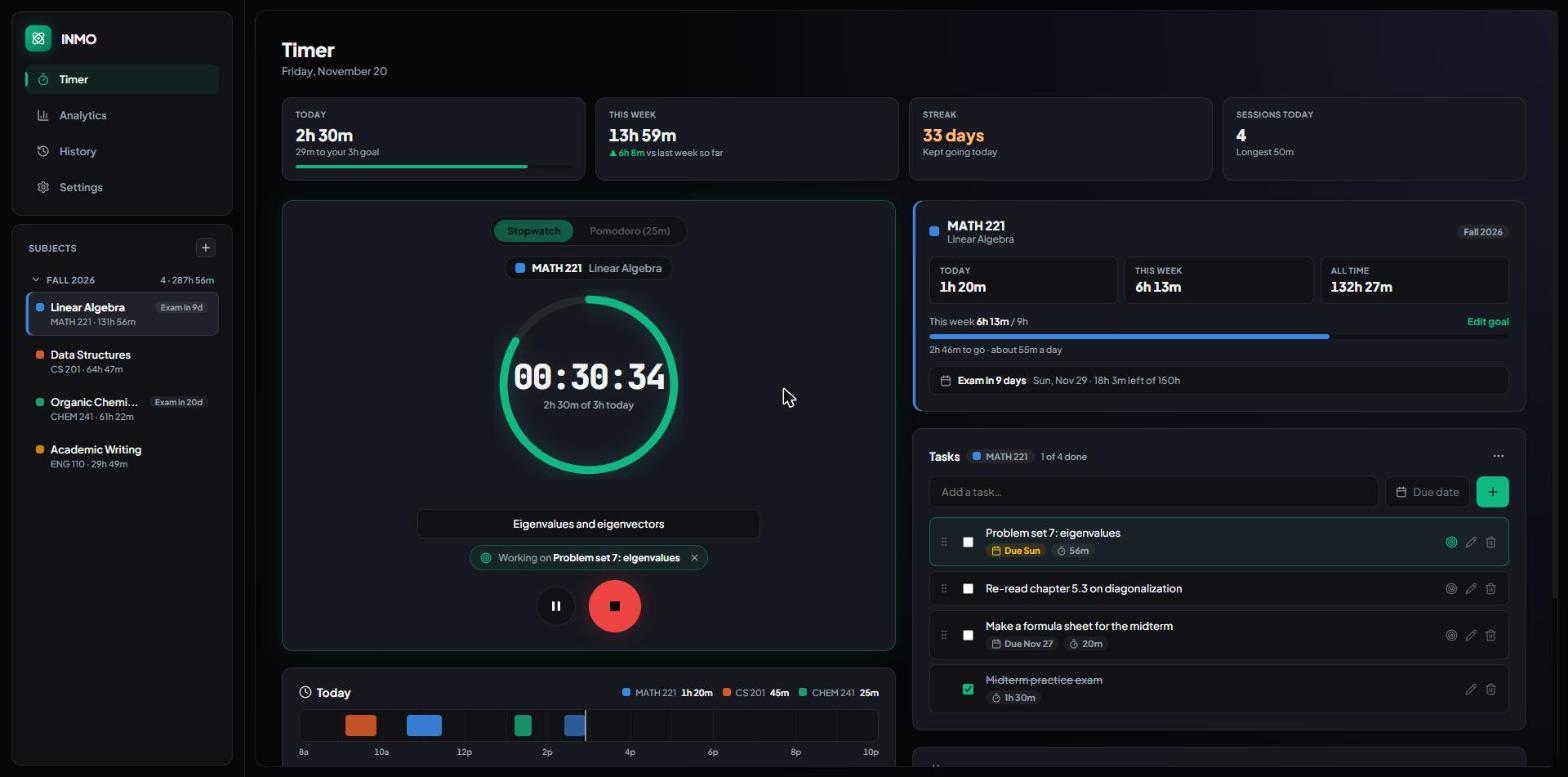
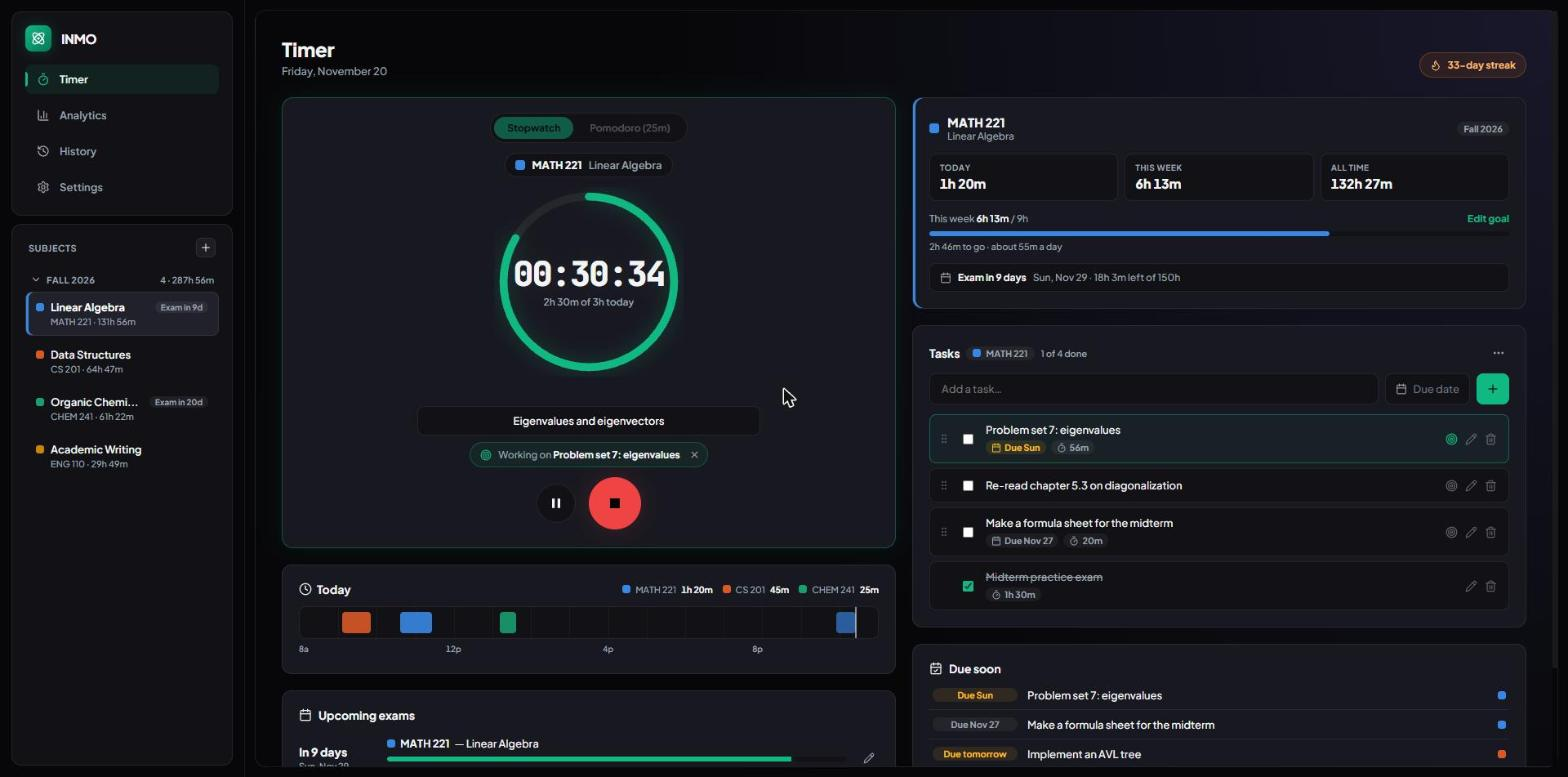
Timer page: back to the streak chip, without the tiles
The four tiles above the timer (today, this week, streak, sessions today) are
gone, and the streak is the flame chip in the header again, as before 1.3.2's
redesign. The timeline and the current subject's card stay. The page now loads
only this week's sessions, since last week's were only for the week tile.

diff --git a/src/today.js b/src/today.js
@@ -1,16 +1,14 @@
-// The Timer page's view of the day around the clock: four tiles (today, this
-// week, streak, sessions), a timeline of today's sessions, and a card for the
-// subject the timer is on. Sessions since last Monday are loaded on each data
+// The Timer page's view of the day around the clock: a timeline of today's
+// sessions and a card for the subject the timer is on. This week's sessions are loaded on each data
 // change; the running session is added on every timer tick without a reload.
 import { icon } from './icons.js';
 import { state, getActiveCourse, courseById, reloadData } from './state.js';
-import { escapeHtml, formatCompact, addDays, weekdayIndex, fmtDay, parseDateKey, errorText } from './format.js';
+import { escapeHtml, formatCompact, weekdayIndex, fmtDay, parseDateKey, errorText } from './format.js';
 import { courseColor, swatch } from './colors.js';
 import { daysUntil, examPace } from './exams.js';
-import { currentStreak } from './subjects.js';
 import { showToast } from './notify.js';
 
-let sessions = [];       // since last Monday, { id, course_id, duration, ended_at }
+let sessions = [];       // since this Monday, { id, course_id, duration, ended_at }
 let editingGoal = false;
 
 function startOfToday() {
@@ -40,9 +38,9 @@ function sumSince(list, from, to = Infinity, courseId = null) {
 }
 
 export async function loadToday() {
-  const lastMonday = addDays(mondayOf(new Date()), -7);
+  const monday = mondayOf(new Date());
   try {
-    sessions = await window.api.getSessions(Math.floor(lastMonday.getTime() / 1000));
+    sessions = await window.api.getSessions(Math.floor(monday.getTime() / 1000));
   } catch (err) {
     console.error('Could not load this week\'s sessions:', err);
     sessions = [];
@@ -51,68 +49,8 @@ export async function loadToday() {
 }
 
 export function renderToday() {
-  renderTiles();
   renderTimeline();
   renderSubjectCard();
-}
-
-// ---------- Tiles ----------
-
-// `sub` may hold markup (the week tile's arrows); everything typed by a person is escaped before it gets here.
-function tile(label, value, sub, extra = '', barPct = null) {
-  return `
-    <div class="summary-tile ${extra}">
-      <div class="summary-tile-label">${label}</div>
-      <div class="summary-tile-value">${value}</div>
-      <div class="summary-tile-sub">${sub}</div>
-      ${barPct === null ? '' : `<div class="tile-bar"><div style="width: ${barPct}%"></div></div>`}
-    </div>`;
-}
-
-function renderTiles() {
-  const el = document.getElementById('today-tiles');
-  if (!el) return;
-  const live = liveSession();
-  const all = live ? [...sessions, live] : sessions;
-  const today = startOfToday();
-  const monday = mondayOf(today);
-  const lastMonday = addDays(monday, -7);
-
-  const todaySecs = sumSince(all, today);
-  const goal = state.dailyGoalSecs;
-  const goalPct = goal > 0 ? Math.min(100, Math.round((todaySecs / goal) * 100)) : 0;
-  const todaySub = !goal
-    ? 'No daily goal set'
-    : todaySecs >= goal ? 'Daily goal reached' : `${formatCompact(goal - todaySecs)} to your ${formatCompact(goal)} goal`;
-
-  const weekSecs = sumSince(all, monday);
-  // Last week up to the same point in the week, so Wednesday compares with last Wednesday.
-  const sameTimeLastWeek = new Date(Date.now() - 7 * 86400000);
-  const lastWeekSecs = sumSince(sessions, lastMonday, sameTimeLastWeek);
-  let weekSub = 'Nothing last week to compare';
-  if (lastWeekSecs > 0) {
-    const diff = weekSecs - lastWeekSecs;
-    weekSub = diff >= 0
-      ? `<span class="trend-up">▲ ${formatCompact(diff)}</span> vs last week so far`
-      : `<span class="trend-down">▼ ${formatCompact(-diff)}</span> vs last week so far`;
-  }
-
-  const streak = currentStreak();
-  const studiedToday = todaySecs > 0;
-  const streakSub = streak === 0
-    ? 'Study today to start one'
-    : studiedToday ? 'Kept going today' : 'Study today to keep it';
-
-  const todayList = all.filter(s => s.ended_at >= today.getTime() / 1000);
-  const longest = todayList.reduce((m, s) => Math.max(m, s.duration), 0);
-  const count = todayList.length;
-  const countSub = count ? `Longest ${formatCompact(longest)}` : 'None yet';
-
-  el.innerHTML =
-    tile('Today', formatCompact(todaySecs), todaySub, goal && todaySecs >= goal ? 'goal-met' : '', goal ? goalPct : null) +
-    tile('This week', formatCompact(weekSecs), weekSub) +
-    tile('Streak', streak ? `${streak} ${streak === 1 ? 'day' : 'days'}` : '—', streakSub, streak && studiedToday ? 'streak-on' : '') +
-    tile('Sessions today', String(count), countSub);
 }
 
 // ---------- Today's timeline ----------
@@ -302,7 +240,6 @@ export function renderTodayLive() {
   const running = state.timer.isStudying && state.timer.phase === 'focus';
   if (running && now - lastLive < 5000) return;
   lastLive = now;
-  renderTiles();
   renderTimeline();
   if (!editingGoal) renderSubjectCard();
 }

diff --git a/src/index.css b/src/index.css
@@ -843,6 +843,13 @@
     }
     .header-badge span { font-weight: 800; }
 
+    .streak-chip {
+      display: inline-flex; align-items: center; gap: 7px; padding: 7px 12px; border-radius: 999px;
+      font-size: 12px; font-weight: 700; color: var(--text-sub);
+      background: var(--bg-card); border: 1px solid var(--border-color);
+    }
+    .streak-chip.on { color: #fdba74; background: rgba(249, 115, 22, 0.1); border-color: rgba(249, 115, 22, 0.3); }
+
     /* Timer page: timer, today's timeline and exams on the left; the subject,
        its tasks and "Due soon" on the right. Narrower windows stack them:
        timer, today, subject, tasks, due soon, exams. */
@@ -995,16 +1002,7 @@
     .datepicker-foot .btn-secondary { padding: 6px 10px; font-size: 12px; }
     .datepicker-foot .btn-secondary:disabled { opacity: 0.4; cursor: default; }
 
-    /* Timer page: today's tiles, timeline and the current subject (today.js) */
-
-    .today-tiles { grid-template-columns: repeat(auto-fit, minmax(170px, 1fr)); }
-    .today-tiles .summary-tile-value { font-variant-numeric: tabular-nums; }
-    .today-tiles .goal-met .summary-tile-value { color: var(--accent); }
-    .today-tiles .streak-on .summary-tile-value { color: #fdba74; }
-    .tile-bar { height: 4px; margin-top: 10px; background: var(--bg-surface); border-radius: 2px; overflow: hidden; }
-    .tile-bar > div { height: 100%; background: var(--accent); border-radius: 2px; transition: width 0.4s ease; }
-    .trend-up { color: var(--accent); font-weight: 700; }
-    .trend-down { color: #f87171; font-weight: 700; }
+    /* Timer page: today's timeline and the current subject (today.js) */
 
     #today-box .section-head { margin-bottom: 12px; }
     .today-legend { display: flex; flex-wrap: wrap; gap: 4px 12px; justify-content: flex-end; }

diff --git a/src/subjects.js b/src/subjects.js
@@ -361,6 +361,14 @@ export function openSubjectDialog(courseId) {
 function updateMetricsDashboard() {
   const date = document.getElementById('focus-date');
   if (date) date.innerText = new Date().toLocaleDateString('en-US', { weekday: 'long', month: 'long', day: 'numeric' });
+  const streak = currentStreak();
+  const chip = document.getElementById('streak-chip');
+  if (chip) {
+    chip.classList.toggle('on', streak > 0);
+    chip.title = streak > 0 ? 'Days in a row with some study' : 'Study today to start a streak';
+  }
+  const streakVal = document.getElementById('current-streak-val');
+  if (streakVal) streakVal.innerText = streak === 0 ? 'No streak yet' : `${streak}-day streak`;
 }
 
 // Days in a row with study, counting back from today (or yesterday, if today has none yet).

diff --git a/src/index.html b/src/index.html
@@ -63,9 +63,10 @@
           <h1>Timer</h1>
           <p id="focus-date"></p>
         </div>
+        <div class="page-actions">
+          <span class="streak-chip" id="streak-chip"><span data-icon="flame" data-size="14"></span><span id="current-streak-val">No streak yet</span></span>
+        </div>
       </div>
-
-      <div class="summary-tiles today-tiles" id="today-tiles"></div>
 
       <div class="focus-grid">
       <div class="focus-col">

diff --git a/README.md b/README.md
@@ -8,7 +8,7 @@ A desktop study tracker for university courses. Time your study sessions per sub
 ![Rust](https://img.shields.io/badge/Rust-000000?style=flat-square&logo=rust&logoColor=white)
 ![SQLite](https://img.shields.io/badge/SQLite-003b57?style=flat-square&logo=sqlite&logoColor=white)
 
-![inmo's Timer page during a session: tiles for today's time against the daily goal, this week, the streak and today's sessions; the running clock; a card for the current subject with its weekly goal and exam countdown; its task list; and a timeline of today's sessions](docs/timer.jpg)
+![inmo's Timer page during a session: the streak in the header; the running clock; a card for the current subject with its weekly goal and exam countdown; its task list; and a timeline of today's sessions](docs/timer.jpg)
 
 <p>
   <img src="docs/analytics.jpg" width="49%" alt="Analytics page: summary stats, a 7-day study trend with average, goal and previous-week lines, a 90-day activity heatmap, and each subject's share of the time">
@@ -20,7 +20,7 @@ A desktop study tracker for university courses. Time your study sessions per sub
 ## Features
 
 - **Focus timer:** a stopwatch, or Pomodoros with automatic short and long breaks (lengths are up to you, and the next Pomodoro can start by itself after a break), logged against the subject you pick. A ring around the clock fills up as a Pomodoro or break runs, and otherwise with today's study time against your daily goal. The clock runs in the app's backend, so it keeps exact time while the window is minimized.
-- **Today at a glance:** the Timer page opens with today's time against your goal, this week against the same point last week, your streak and today's session count. Below the clock, a timeline shows each of today's sessions as a block in its subject's color, the running one included. A card for the current subject shows its time today, this week and in total, its weekly goal (set it right there) and its exam countdown.
+- **Today at a glance:** below the clock on the Timer page, a timeline shows each of today's sessions as a block in its subject's color, the running one included. A card for the current subject shows its time today, this week and in total, its weekly goal (set it right there) and its exam countdown.
 - **Away detection:** if the stopwatch runs with no keyboard or mouse activity for a while (10 minutes by default), inmo asks when you're back whether to keep that time.
 - **Tray and shortcut:** start or stop the timer from the tray icon or with Ctrl+Alt+S from any app. inmo can start with Windows, and the close button can send it to the tray instead of quitting.
 - **Subjects and tasks:** add, edit and archive courses, each with its own to-do list. Archived subjects keep their history and still count in analytics.
